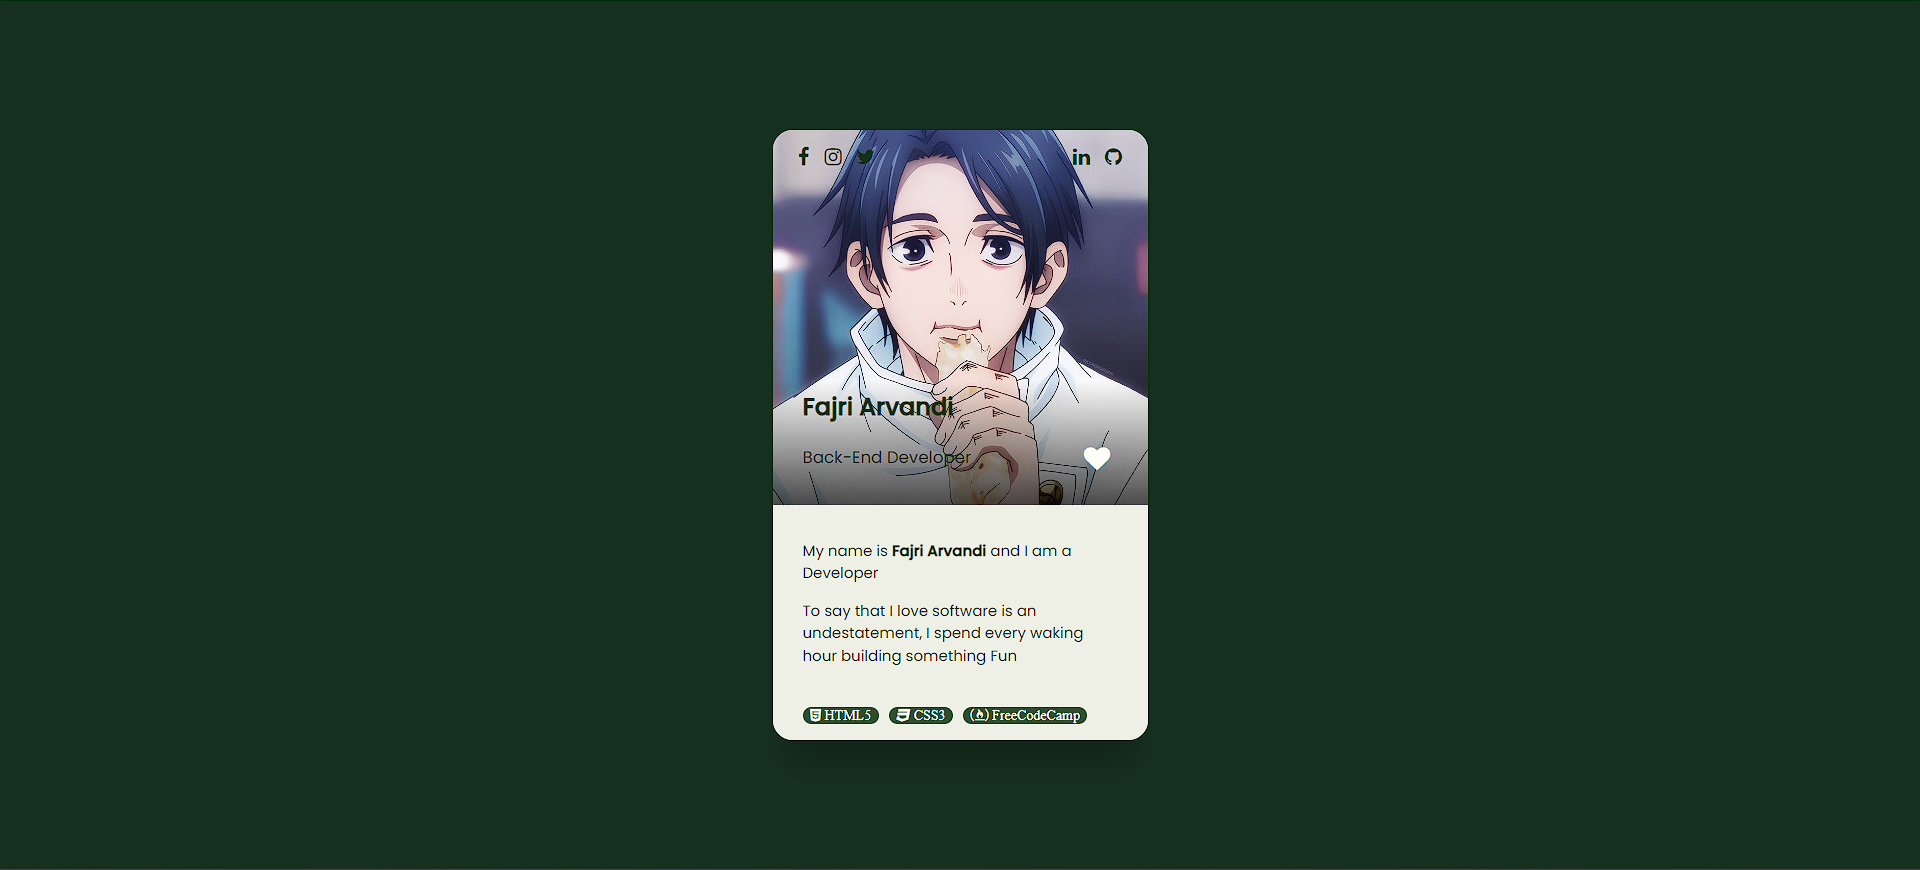
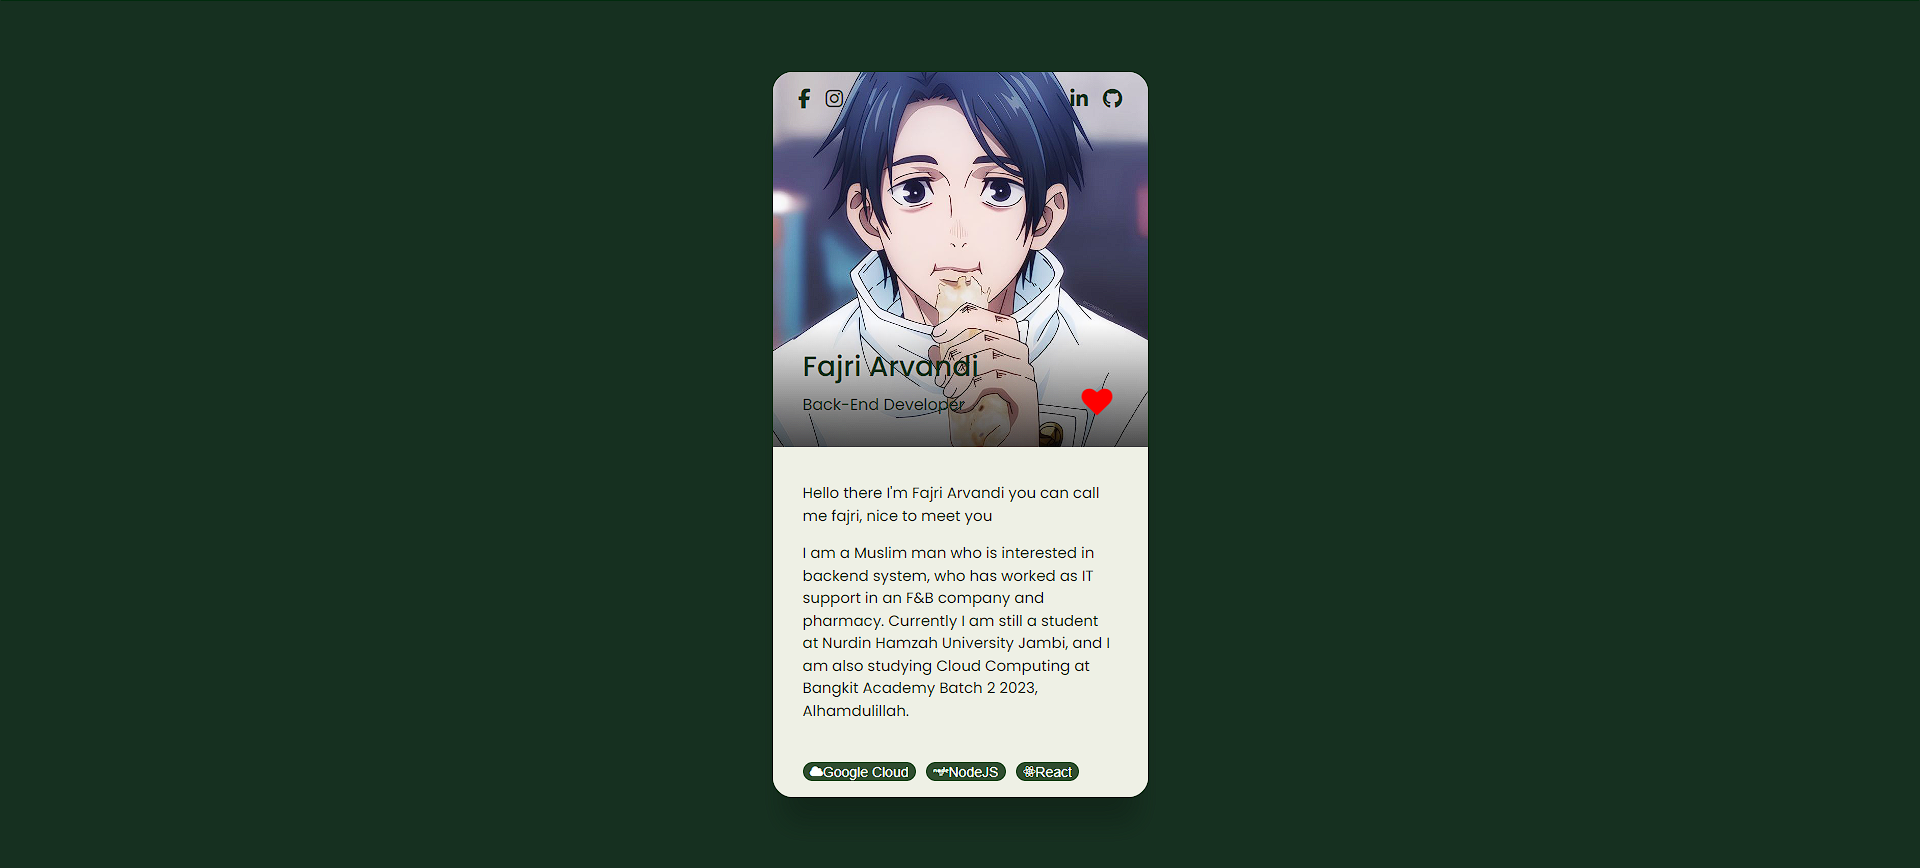
update

Changed region(s): [[0.375, 0.0622, 0.625, 0.9332], [0.0, 0.9954, 1.0, 1.0]]

diff --git a/src/components/Bottom.jsx b/src/components/Bottom.jsx
@@ -1,26 +1,22 @@
-export default function Bottom() {
+/* eslint-disable react/prop-types */
+export default function Bottom({ user }) {
   return (
     <>
       <div className="bottom">
         <div className="desc">
-          <p>
-            My name is <b>Fajri Arvandi</b> and I am a Developer
-          </p>
-          <p>
-            To say that I love software is an undestatement, I spend every
-            waking hour building something Fun
-          </p>
+          <p>{user.desc.intro}</p>
+          <p>{user.desc.about}</p>
         </div>
         <div className="buttons">
-          <button>
-            <i className="fa fa-js"></i>Javascript
-          </button>
-          <button>
-            <i className="fa fa-node"></i>NodeJS
-          </button>
-          <button>
-            <i className="fa fa-react"></i>React
-          </button>
+          {user.skills.map((item, index) => (
+            <button
+              key={index}
+              onClick={() => window.open(item.link, "_blank")}
+            >
+              <i className={`fa fa-${item.icon}`}></i>
+              {item.text}
+            </button>
+          ))}
         </div>
       </div>
     </>

diff --git a/src/data.js b/src/data.js
@@ -1,6 +1,46 @@
 const user = {
-  name: "Fajri Arvandi",
-  title: "Back-End Developer",
+  name: "Your-Name",
+  title: "Your Title or Job",
+  image: "https://cdn-icons-png.flaticon.com/512/456/456283.png",
+  desc: {
+    intro: "Hello there I'm 'your-name' you can call me 'your-short-name', nice to meet you",
+    about: `Type something about you like your experience, your education, your achievement, or anything`,
+  },
+  sosmed: [
+    {
+      icon: "facebook",
+      link: "https://www.facebook.com/",
+    },
+    {
+      icon: "instagram",
+      link: "https://www.instagram.com/",
+    },
+    {
+      icon: "linkedin",
+      link: "https://www.linkedin.com/",
+    },
+    {
+      icon: "github",
+      link: "https://www.github.com/",
+    },
+  ],
+  skills:[
+    {
+      icon:"cloud",
+      link:"https://cloud.google.com/",
+      text:"Cloud Computing",
+    },
+    {
+      icon:"node",
+      link:"httphttps://nodejs.org/en",
+      text:"NodeJS",
+    },
+    {
+      icon:"react",
+      link:"https://react.dev/",
+      text:"React",
+    },
+  ]
 };
 
 export default user;

diff --git a/src/components/Top.jsx b/src/components/Top.jsx
@@ -1,18 +1,23 @@
 /* eslint-disable react/prop-types */
 import Icon from "./Icon";
 
-export default function Top({user}) {
+export default function Top({ user }) {
+  const middleIndex = Math.round(user.sosmed.length / 2);
+  const sosmedLeft = user.sosmed.slice(0, middleIndex);
+  const sosmedRight = user.sosmed.slice(middleIndex);
   return (
     <>
       <div className="top">
+        <img src={user.image} alt="profile" />
         <div className="social-buttons">
-          <Icon icon="facebook" />
-          <Icon icon="instagram" />
-          <Icon icon="twitter" />
+          {sosmedLeft.map((item, index) => (
+            <Icon key={index} icon={item.icon} link={item.link} />
+          ))}
         </div>
         <div className="social-buttons right">
-          <Icon icon="linkedin" />
-          <Icon icon="github" />
+          {sosmedRight.map((item, index) => (
+            <Icon key={index} icon={item.icon} link={item.link} />
+          ))}
         </div>
         <div className="text">
           <div className="name-wrapper">

diff --git a/src/assets/style/index.css b/src/assets/style/index.css
@@ -38,12 +38,14 @@ body {
 
 .card .top {
   position: relative;
+}
+
+.card .top img {
+  position: relative;
   width: 300px;
   height: 300px;
   color: #fffff9;
   border-radius: 1rem 1rem 0 0;
-  background: url("https://i.pinimg.com/736x/ed/11/88/ed11887644f3353406acf77d4bdf6f60.jpg")
-    no-repeat center top;
   transition: background-size 1.5s ease-in-out;
   background-size: 100%;
 }

diff --git a/src/components/Icon.jsx b/src/components/Icon.jsx
@@ -1,7 +1,7 @@
 /* eslint-disable react/prop-types */
-export default function Icon({icon}){
+export default function Icon({icon, link}){
     return(
-        <button>
+        <button onClick={()=>window.open(link, "_blank")}>
             <i className={`fa fa-${icon}`}></i>
         </button>
     )

diff --git a/src/components/Card.jsx b/src/components/Card.jsx
@@ -6,7 +6,7 @@ export default function Card() {
   return (
     <div className="card">
       <Top user={user} />
-      <Bottom />
+      <Bottom user={user} />
     </div>
   );
 }

diff --git a/README.md b/README.md
@@ -8,6 +8,7 @@ Let's try this code:
     <li>Download or clone this project</li>
     <li>Make sure you have installed Node Package Manager and NodeJS</li>
     <li>Install package with "npm install"</li>
+    <li>Adjust your data in file src/data.js</li>
     <li>Run this project with "npm run dev"</li>
     <li>Happy coding</li>
 </ol>
